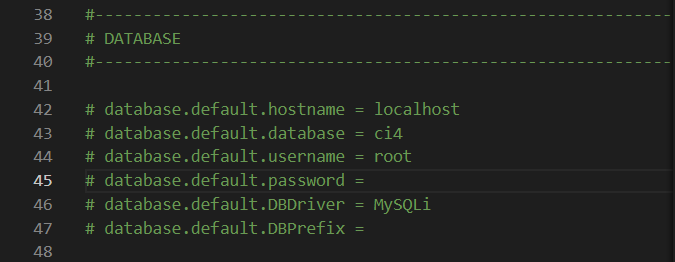
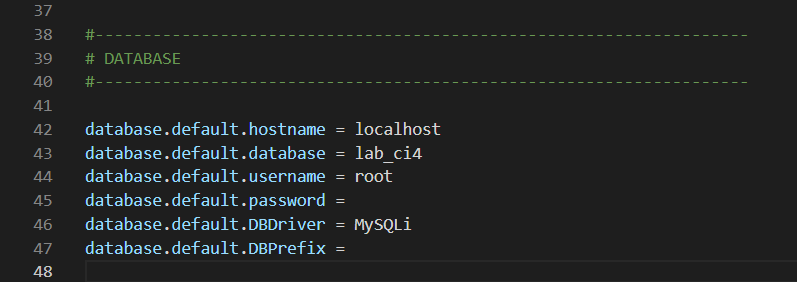
.

diff --git a/Lab11_php_ci/ci4/app/Controllers/Artikel.php b/Lab11_php_ci/ci4/app/Controllers/Artikel.php
@@ -14,3 +14,16 @@ class Artikel extends BaseController
     return view('artikel/index', compact('artikel', 'title'));
     }
 }
+    public function view($slug)
+    {
+        $model = new ArtikelModel();
+        $artikel = $model->where(['slug' => $slug])->first();
+    
+        // Menampilkan error apabila data tidak ada.
+        if (!$artikel)
+        {
+            throw PageNotFoundException::forPageNotFound();
+        }
+        $title = $artikel['judul'];
+        return view('artikel/detail', compact('artikel', 'title'));
+    }

diff --git a/Lab11_php_ci/ci4/app/Views/artikel/detail.php b/Lab11_php_ci/ci4/app/Views/artikel/detail.php
@@ -1,0 +1,9 @@
+<?= $this->include('template/header'); ?>
+
+<article class="entry">
+    <h2><?= $artikel['judul']; ?></h2>
+    <img src="<?= base_url('/gambar/' . $artikel['gambar']);?>" alt="<?=$artikel['judul']; ?>">
+    <p><?= $artikel['isi']; ?></p>
+</article>
+
+<?= $this->include('template/footer'); ?>

diff --git a/README.md b/README.md
@@ -248,7 +248,7 @@ CREATE TABLE artikel (
 
 ## KONFIGURASI KONEKSI DATABASE
 
-Konfigurasi dapat dilakukan dengan dua cara. Pertama, pada dua file app/config/database.php atau yang kedua menggunakan file .env seperti yang akan saya gunakan.
+Konfigurasi dapat dilakukan dengan dua cara. Pertama, pada dua file app/config/database.php atau yang kedua menggunakan file .env seperti yang akan saya gunakan dengan menghapus tanda # pada bagian database seperti dibawah.
 
 ![menambahkan_gambar](img/KONFIG%20KONEKSI%2012.png)
 
@@ -297,6 +297,94 @@ class Artikel extends BaseController
 ```
 
 ## PEMBUATAN VIEW
+
+Buatlah direktori baru dengan nama artikel pada direktori app/views yang kemudian didalamnya buatlah file dengan nama index.php yang diisi dengan kode berikut:
+
+```php
+<?= $this->include('template/header'); ?>
+
+<?php if($artikel): foreach($artikel as $row): ?>
+<article class="entry">
+    <h2><a href="<?= base_url('/artikel/' . $row['slug']);?>"><?=$row['judul']; ?></a></h2>
+    <img src="<?= base_url('/gambar/' . $row['gambar']);?>" alt="<?=$row['judul']; ?>">
+    <p><?= substr($row['isi'], 0, 200); ?></p>
+</article>
+<hr class="divider" />
+<?php endforeach; else: ?>
+<article class="entry">
+    <h2>Belum ada data.</h2>
+</article>
+<?php endif; ?>
+
+<?= $this->include('template/footer'); ?>
+```
+
+Setelahnya refresh kembali browsernya dan kalian akan mendapatkan tampilan seperti gambar dibawah ini.
+
+
+
+Tampilan diatas belum memiliki satupun data yang ditampilkan, jadi cobalah tambahkan beberapa data pada database agar dapat ditampilkan datanya. Berikut kode yang digunakan:
+
+```php
+INSERT INTO artikel (judul, isi, slug) VALUE
+('Artikel pertama', 'Lorem Ipsum adalah contoh teks atau dummy dalam industri percetakan dan penataan huruf atau typesetting. Lorem Ipsum telah menjadi standar contoh teks sejak tahun 1500an, saat seorang tukang cetak yang tidak dikenal mengambil sebuah kumpulan teks dan mengacaknya untuk menjadi sebuah
+buku contoh huruf.', 'artikel-pertama'), ('Artikel kedua', 'Tidak seperti anggapan banyak orang, Lorem Ipsum bukanlah
+teks-teks yang diacak. Ia berakar dari sebuah naskah sastra latin klasik dari era 45 sebelum masehi, hingga bisa dipastikan usianya telah mencapai lebih dari 2000 tahun.', 'artikel-kedua');
+```
+
+Refresh kembali browsernya dan akan menampilkan tampilan seperti ini.
+
+
+
+## MEMBUAT TAMPILAN DETAIL ARTIKEL
+
+Tampilan pada saat judul berita di klik maka akan diarahkan ke halaman yang berbeda. Tambahkan fungsi baru pada Controller Artikel dengan nama view(). Kemudian tambahkan kode berikut.
+
+```php
+public function view($slug)
+    {
+        $model = new ArtikelModel();
+        $artikel = $model->where(['slug' => $slug])->first();
+        
+        // Menampilkan error apabila data tidak ada.
+        if (!$artikel)
+        {
+            throw PageNotFoundException::forPageNotFound();
+        }
+        $title = $artikel['judul'];
+        return view('artikel/detail', compact('artikel', 'title'));
+    }
+```
+
+## MEMBUAT VIEW DETAIL
+
+Buat view baru untuk halaman detail dengan nama app/views/artikel/detail.php dengan memasukan kode berikut.
+
+```php
+<?= $this->include('template/header'); ?>
+
+<article class="entry">
+    <h2><?= $artikel['judul']; ?></h2>
+    <img src="<?= base_url('/gambar/' . $artikel['gambar']);?>" alt="<?=$artikel['judul']; ?>">
+    <p><?= $artikel['isi']; ?></p>
+</article>
+
+<?= $this->include('template/footer'); ?>
+```
+
+
+
+
+
+
+
+
+
+
+
+
+
+
 
 
 # <P align="center"> THANK'S FOR YOUR ATTENTION!! SEE YOU!!
